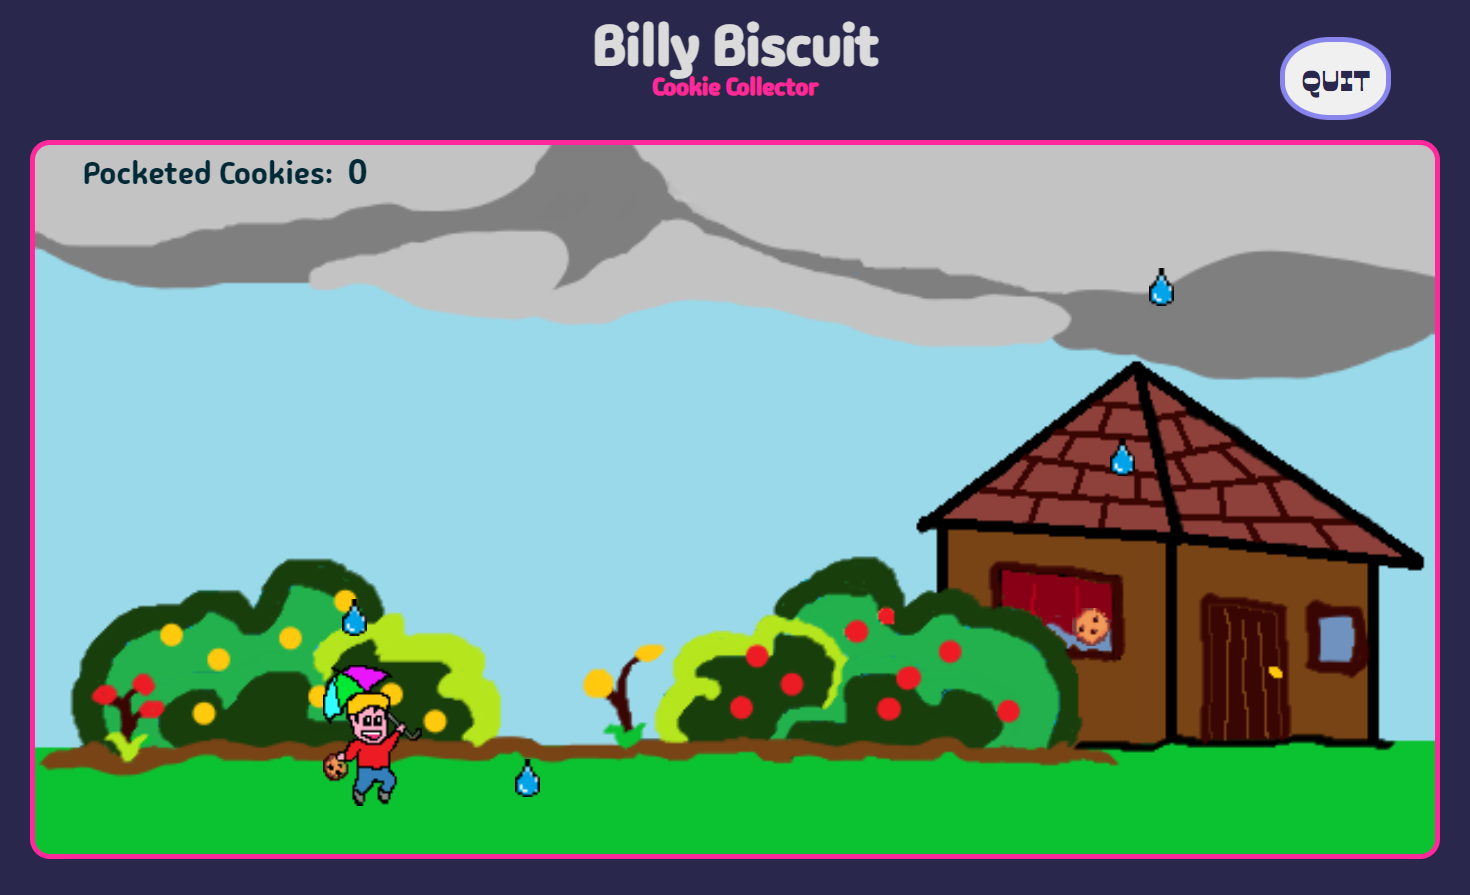
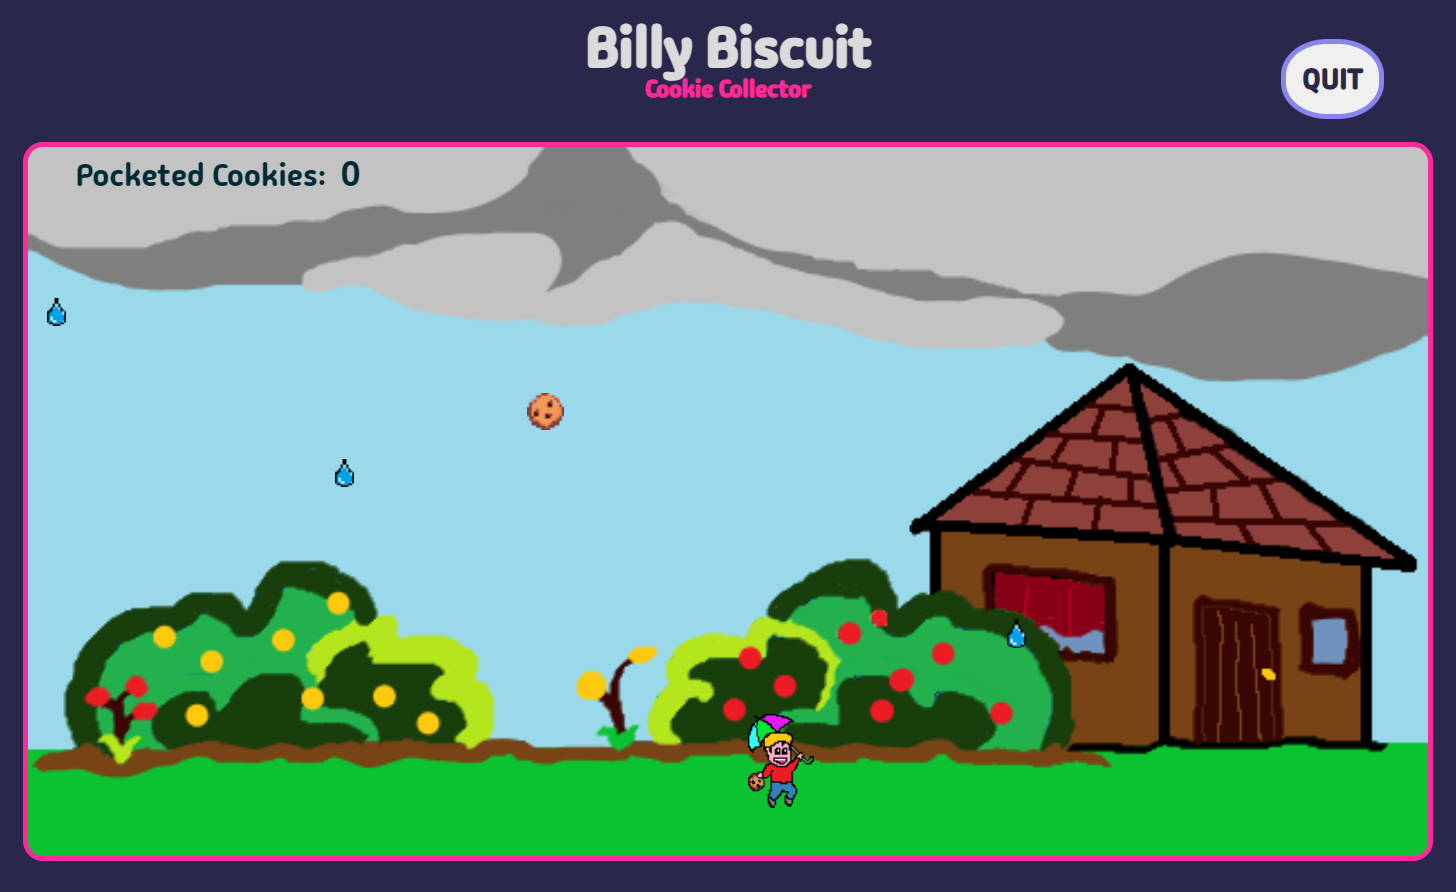
sizing and collision detection edits, text edits, readme edits

diff --git a/index.html b/index.html
@@ -22,9 +22,9 @@
             </div>
             <div class="legend-text-container">
                 <p>
-                    Billy needs calories for happiness! If he catches enough cookies, he'll be happy and too full to
-                    move. If
-                    he loses all his cookies, he won't play with you anymore.
+                    Billy needs a dozen cookies for happiness!<br/>
+                    🢀 and 🢂 arrow keys help Billy<br/>
+                    catch the good stuff and avoid the bad stuff.
                 </p>
             </div>
         </div>
@@ -35,8 +35,8 @@
             </div>
             <div class="legend-text-container">
                 <p>
-                    Billy catches cookies for calories and puts them in his pocket! Use the LEFT and RIGHT arrow keys to
-                    help him.
+                    Calories make Billy happy!<br/>
+                    Catch 12 and Billy will be too happily full to move.
                 </p>
             </div>
         </div>
@@ -48,7 +48,9 @@
             </div>
             <div class="legend-text-container">
                 <p>
-                    Wet soggy cookies make Billy sad! When cookies get soaked, they liquify in Billy's pocket.
+                    Keep the cookies dry!<br/>
+                    One raindrop makes one cookie wet and gross.<br/>
+                    Zero cookies leads to sadness and Billy will go home.
                 </p>
             </div>
         </div>
@@ -59,7 +61,9 @@
             </div>
             <div class="legend-text-container">
                 <p>
-                    Run far away! Many of Billy's cookies will get... dirty.
+                    Stay away!<br/>
+                    Three of Billy's cookies will get... dirty.<br/>
+                    Dirty cookies make Billy lose his appetite.
                 </p>
             </div>
         </div>
@@ -70,7 +74,7 @@
             </div>
             <div class="legend-text-container">
                 <p>
-                    Supercookie delivers a lot of calories!
+                    Supercookie to the rescue with five cookies!
                 </p>
             </div>
         </div>

diff --git a/js/objects-main.js b/js/objects-main.js
@@ -1,7 +1,7 @@
 class Player {
     constructor() {
-        this.width = 10;
-        this.height = 15;
+        this.width = 5;
+        this.height = 10;
         this.positionX = 40 - (this.width / 2);
         this.positionY = 5;
 
@@ -77,8 +77,8 @@ class Cookie extends Sprite {
 class Raindrop extends Sprite {
     constructor() {
         super();
-        this.width = 2;
-        this.height = 4;
+        this.width = 1;
+        this.height = 3;
         this.createSprite();
         this.sprite.classList.add("raindrop");
 

diff --git a/css/main.css b/css/main.css
@@ -22,9 +22,11 @@
 }
 
 .legend-container {
+    margin: 0 auto;
+    width: 45%;
     display: flex;
     align-items: center;
-    }
+}
 
 .legend-image-container {
     background-color: var(--light-0);
@@ -63,8 +65,7 @@
     border-color: var(--bright-2);
 }
 
-.legend-image-container:hover + .legend-text-container {
-    font-size: 1.8rem;
+.legend-image-container:hover+.legend-text-container {
     color: var(--bright-2);
 }
 
